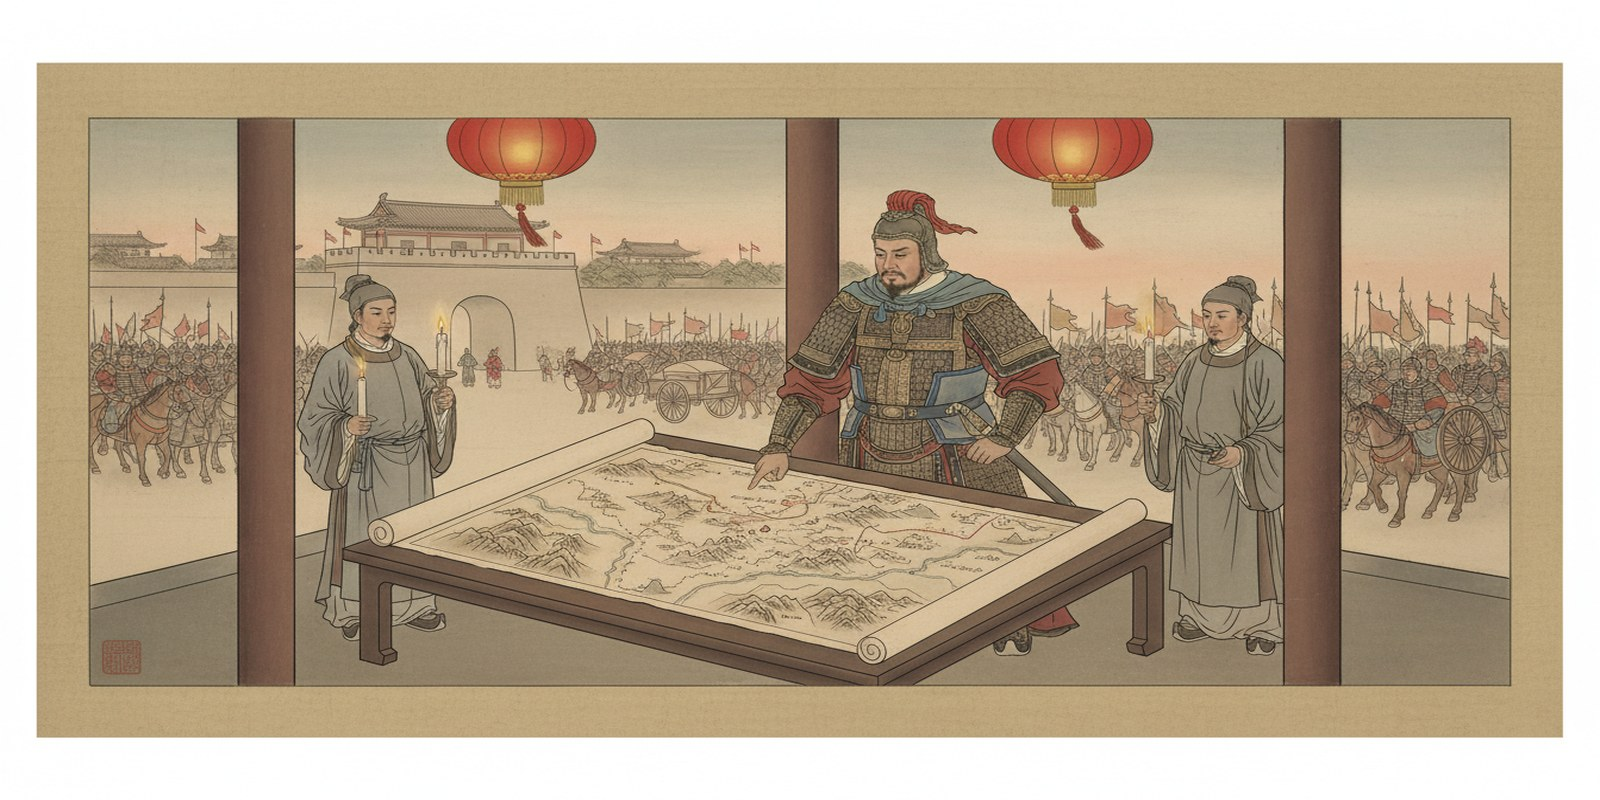
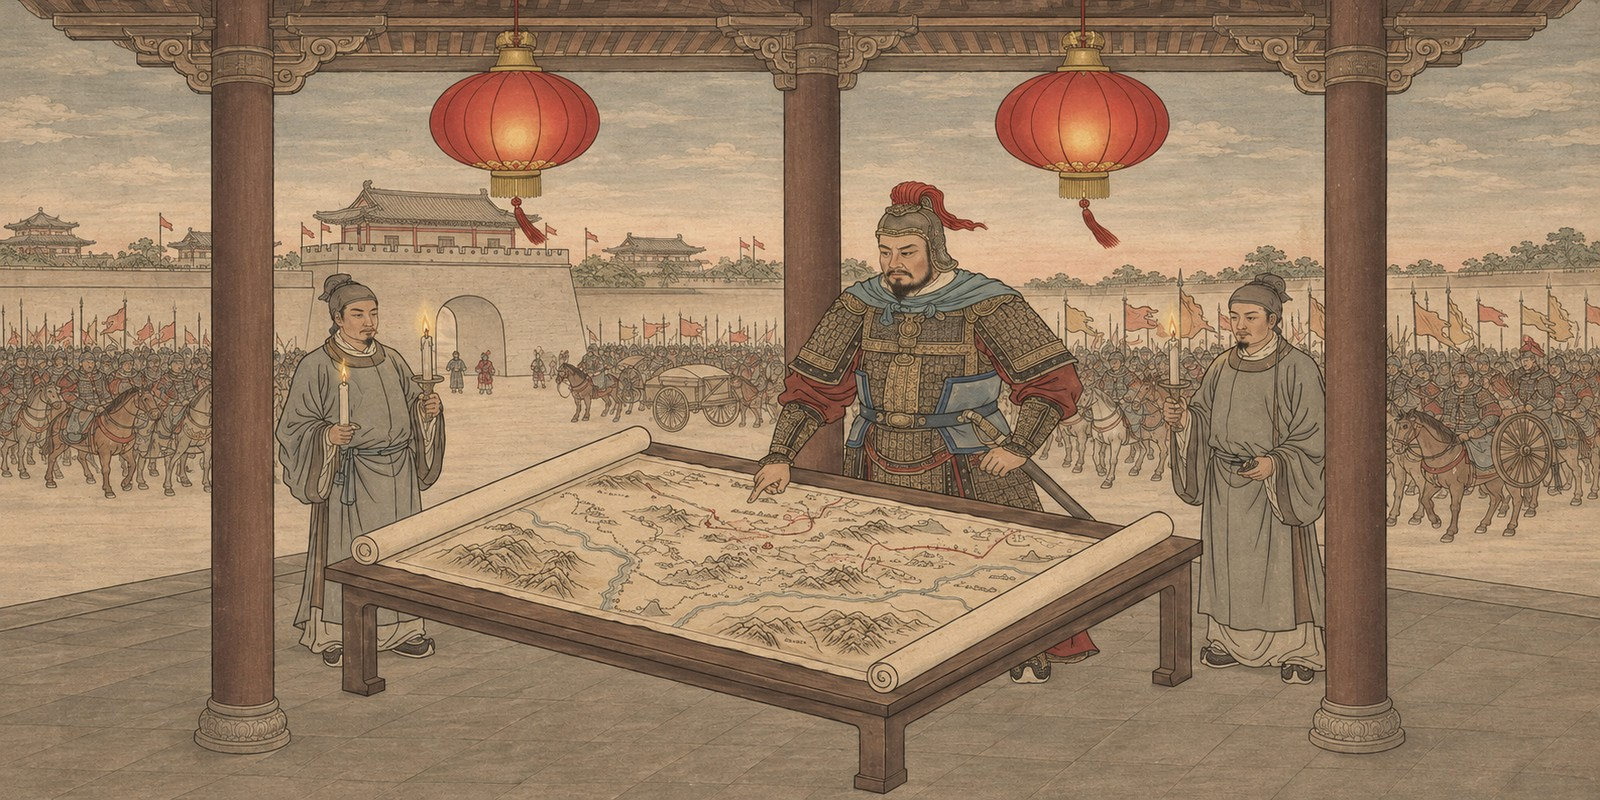
fix(web): remove built-in borders from series hero images

diff --git a/apps/web/src/content/posts/doc-kinh-te-nhu-doc-tap-lo/index.md b/apps/web/src/content/posts/doc-kinh-te-nhu-doc-tap-lo/index.md
@@ -3,7 +3,7 @@ title: 'Kỳ 1 — Đọc kinh tế như đọc táp-lô ô tô'
 description: 'Kỳ 1 series "Tiền đắt, máy nóng": bốn chiếc đồng hồ để đọc nền kinh tế và bốn mùa của chu kỳ, trả lời vì sao kinh tế tăng trưởng gần 10% mà đi chợ vẫn đắt.'
 pubDate: '2026-11-27T12:05:00+07:00'
 heroImage: hero.jpg
-heroAlt: 'Tranh cuộn cổ phong: viên quan đứng cạnh chiếc cân đène cân vàng xu và thỏi bạc, bên cạnh hòm đầy xu tiền cổ, lính hầu đứng hai bên trong điện đường.'
+heroAlt: 'Trong điện đường, một viên quan đứng xem cân tiền cổ, bên cạnh hòm đựng tiền và hai lính hầu.'
 heroCredit: 'Minh họa phong cách tranh cuộn cổ phong, ảnh minh họa tạo bằng AI'
 topic: kinh-te-va-dia-chinh-tri
 tags: [kinh-te]
